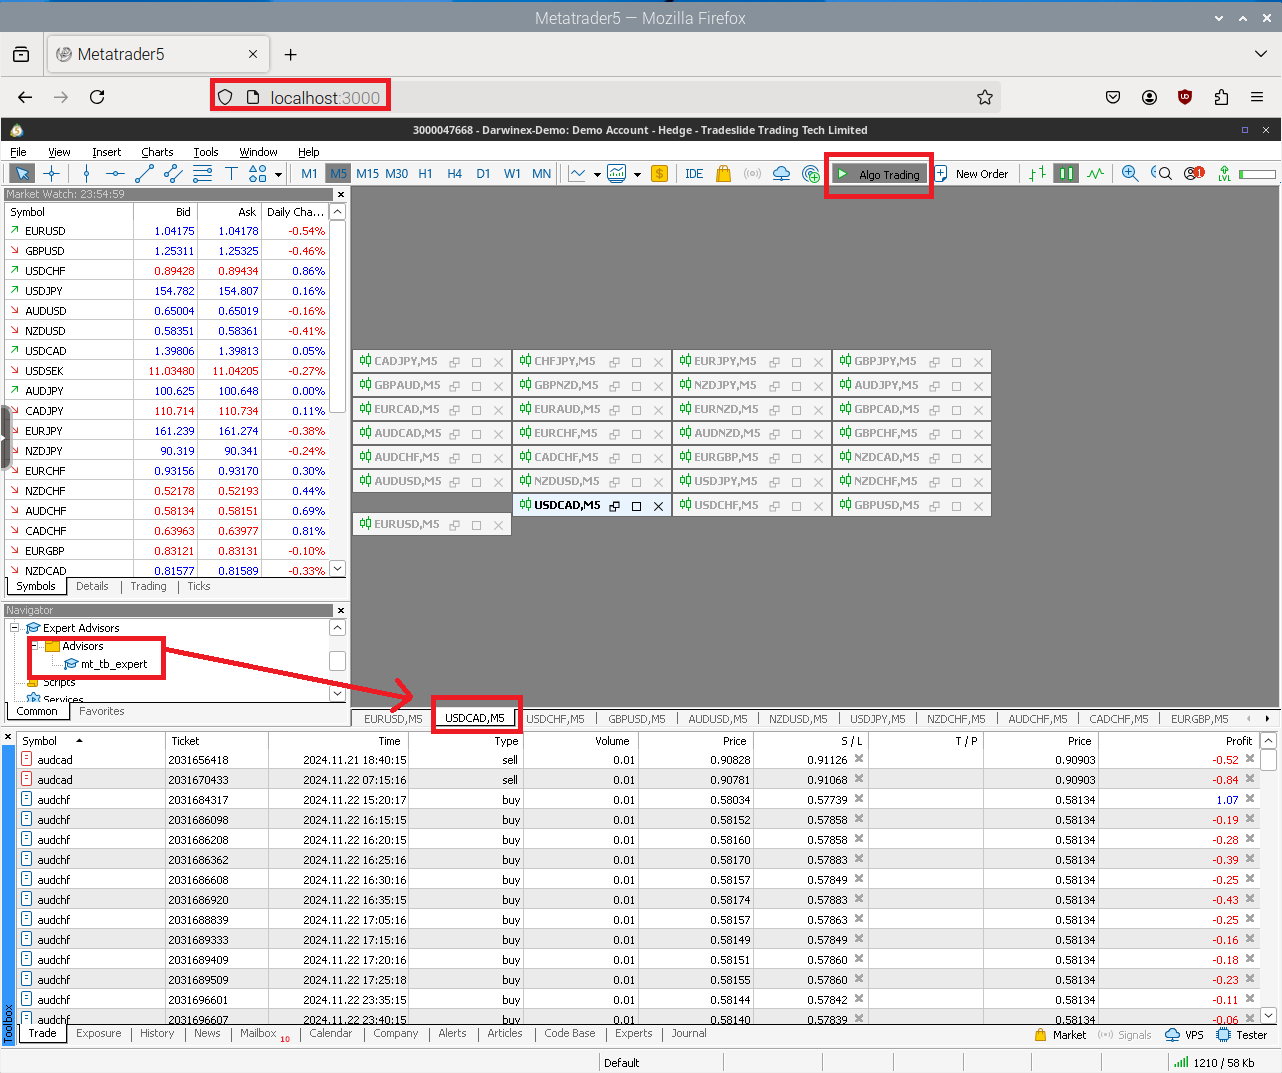
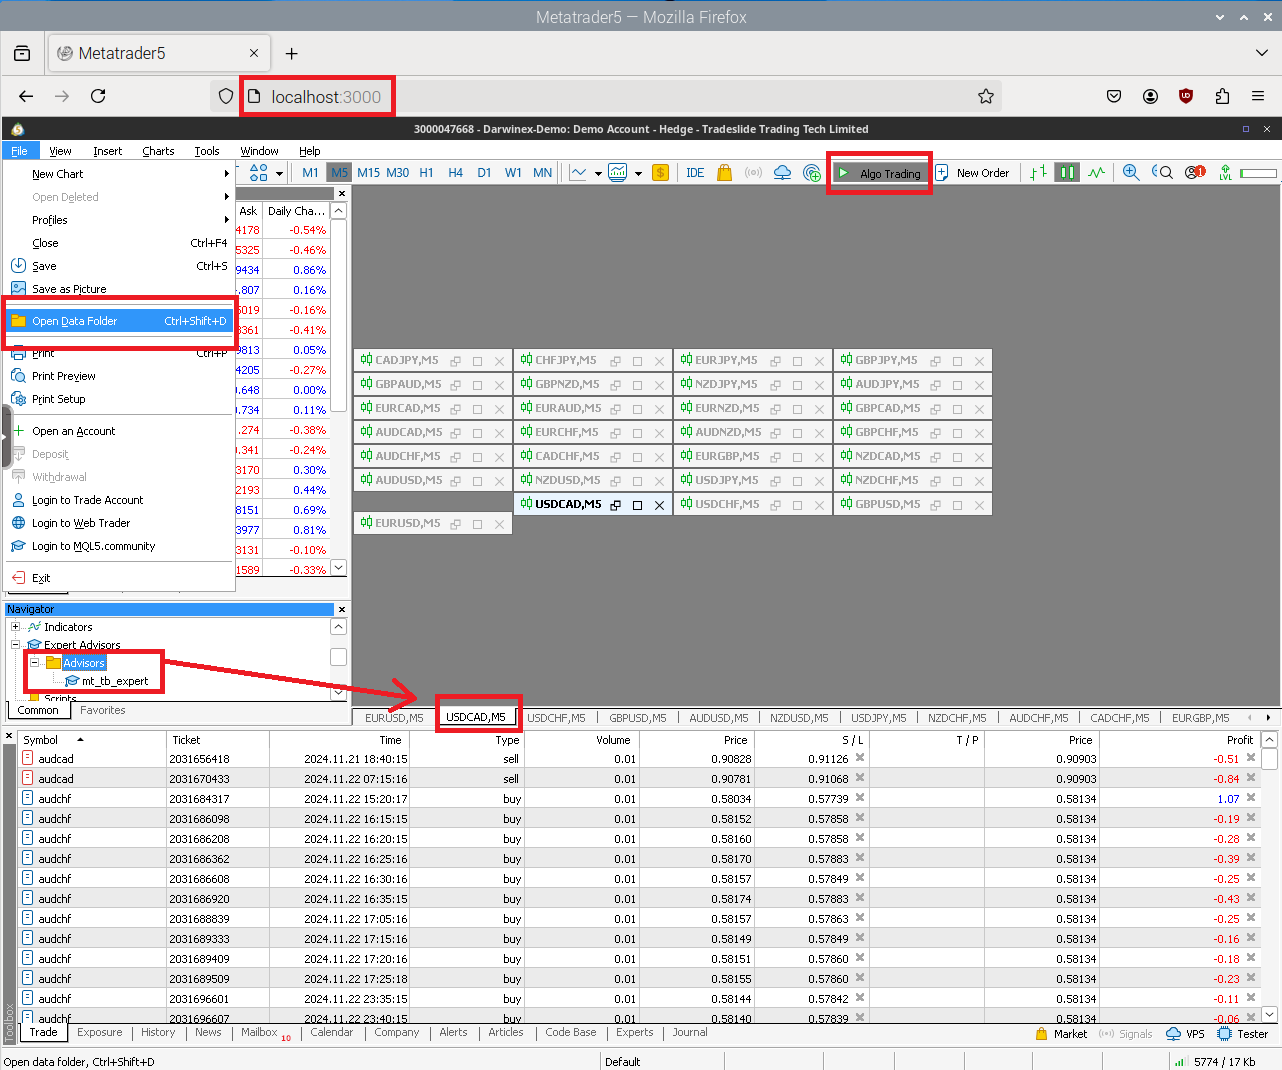
README updated

Changed region(s): [[0.0, 0.0308, 1.0, 1.0], [0.4056, 0.0, 0.5928, 0.0308], [0.7488, 0.0617, 0.78, 0.0925]]

diff --git a/README.md b/README.md
@@ -16,18 +16,20 @@ docker run --privileged --rm tonistiigi/binfmt --install all
 
 Run "make run_docker" to activate MetaTrader.
 If a connection error occurs on Debian repository packages, 
-run the "make run_docker" command again.
+run the "make run_docker" command again. If a permission error occurs,
+use "sudo chmod -R 777" to metatrader folder.
 
-Once it's available, access it through the browser at [localhost:3000](localhost:3000).
+Once it's available, access it through the browser at [localhost:3000](http://localhost:3000).
 
 1) Log in to your broker account.
 2) Add the symbols you want to trade. 
 There is the option for the bot to open them automatically, but I do not recommend it.
-3) Download [mt_tb_expert.ex5](https://github.com/sorul/tradeo/raw/refs/heads/master/docs/files/mt_tb_expert.ex5)
-file and put it in the proper directory: ./metatrader/.wine/drive_c/Program Files/MetaTrader 5/MQL5/Experts/Advisors/mt_tb_expert.ex5
-4) Activate the "Algo Trading" button at the top of MetaTrader.
-5) Activate the expert in any symbol chart (e.g. USCAD, M5), it does not matter which chart you use. 
-But only in one of them.
+3) Locate the data folder. To do so, you need to go to File > Open Data Folder.
+Copy the last folder name, for example: D0E8209F77C8CF37AD8BF550E51FF075
+4) Download [mt_tb_expert.ex5](https://github.com/sorul/tradeo/raw/refs/heads/master/docs/files/mt_tb_expert.ex5)
+file and put it in the proper directory: ./metatrader/.wine/drive_c/users/abc/AppData/Roaming/MetaQuotes/Terminal/D0E8209F77C8CF37AD8BF550E51FF075/MQL5/Experts/Advisors/mt_tb_expert.ex5
+5) Activate the "Algo Trading" button at the top of MetaTrader.
+6) Double click in the expert to activate it in any symbol chart (e.g. USCAD, M5), it does not matter which chart you use. But only in one of them.
 
 ![TradingBot Image](docs/img/mt5_readme.png)
 
